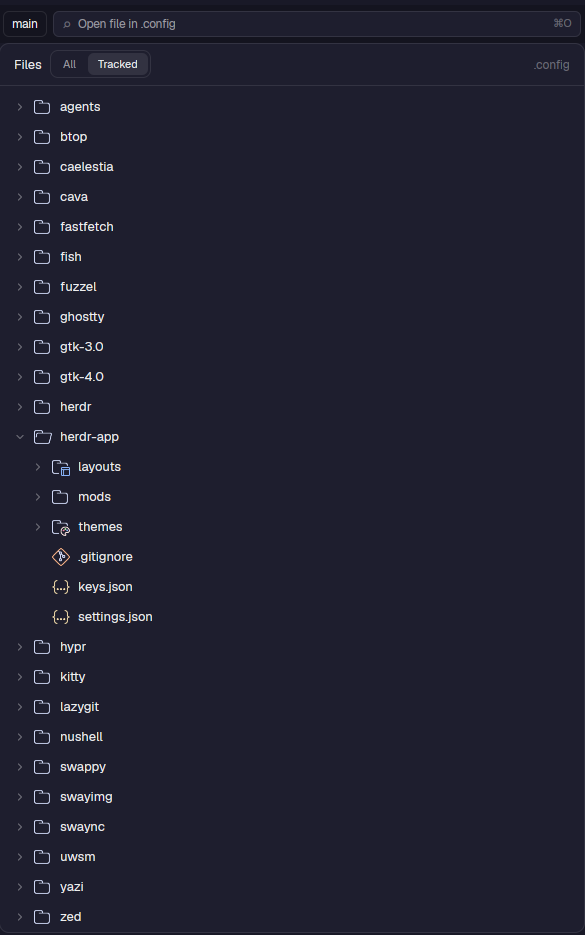
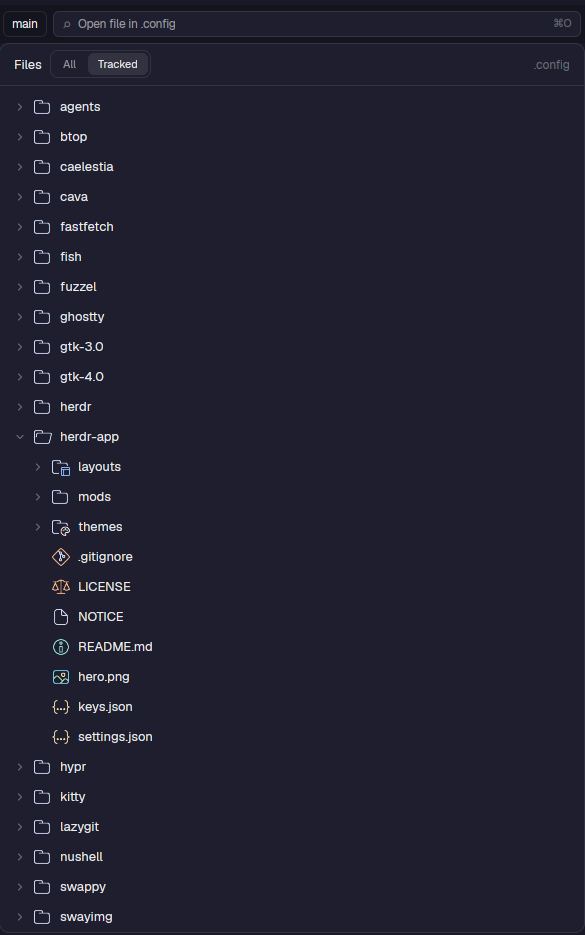
docs(herdr-app): unblurred screenshots, a fresh Claude Code in the hero, only usernames hidden in PRs

Changed region(s): [[0.0615, 0.6203, 0.2462, 0.9925]]

diff --git a/herdr-app/mods/relevo-agents/README.md b/herdr-app/mods/relevo-agents/README.md
@@ -4,8 +4,6 @@ Herdr's **Agents** list, plus a launcher menu, the account each agent runs on an
 
 ![The agents list](screenshot.png)
 
-*(Space and agent names of work projects are blurred in the screenshot.)*
-
 ## What it adds to the stock `agents` mod
 
 Everything else (priority sections, grouping by space, pins, sub-agents, durations, sorting) is Herdr's own.

diff --git a/herdr-app/mods/linear/README.md b/herdr-app/mods/linear/README.md
@@ -4,8 +4,6 @@ Your Linear tickets as a panel in Herdr.
 
 ![The Linear panel](screenshot.png)
 
-*(Ticket ids, titles and project names are blurred in the screenshot.)*
-
 ## What it does
 
 - Lists **My issues**, or any saved **View**, grouped by workflow state (In Progress, Todo, Merged, In QA, Backlog, Done);

diff --git a/herdr-app/mods/prs/README.md b/herdr-app/mods/prs/README.md
@@ -4,7 +4,7 @@ GitHub pull requests as a panel in Herdr, with a full PR dialog one click away.
 
 ![The PRs panel](screenshot.png)
 
-*(Titles, users and avatars are blurred in the screenshot.)*
+*(Usernames are blurred in the screenshot.)*
 
 ## What it does
 

diff --git a/herdr-app/README.md b/herdr-app/README.md
@@ -5,8 +5,6 @@ files (layouts, mods, keys, settings), so this folder *is* the app's look and be
 
 ![The piioni layout](hero.png)
 
-*(The terminal and work project names are blurred in the screenshots.)*
-
 ## The layout: `piioni`
 
 ```
